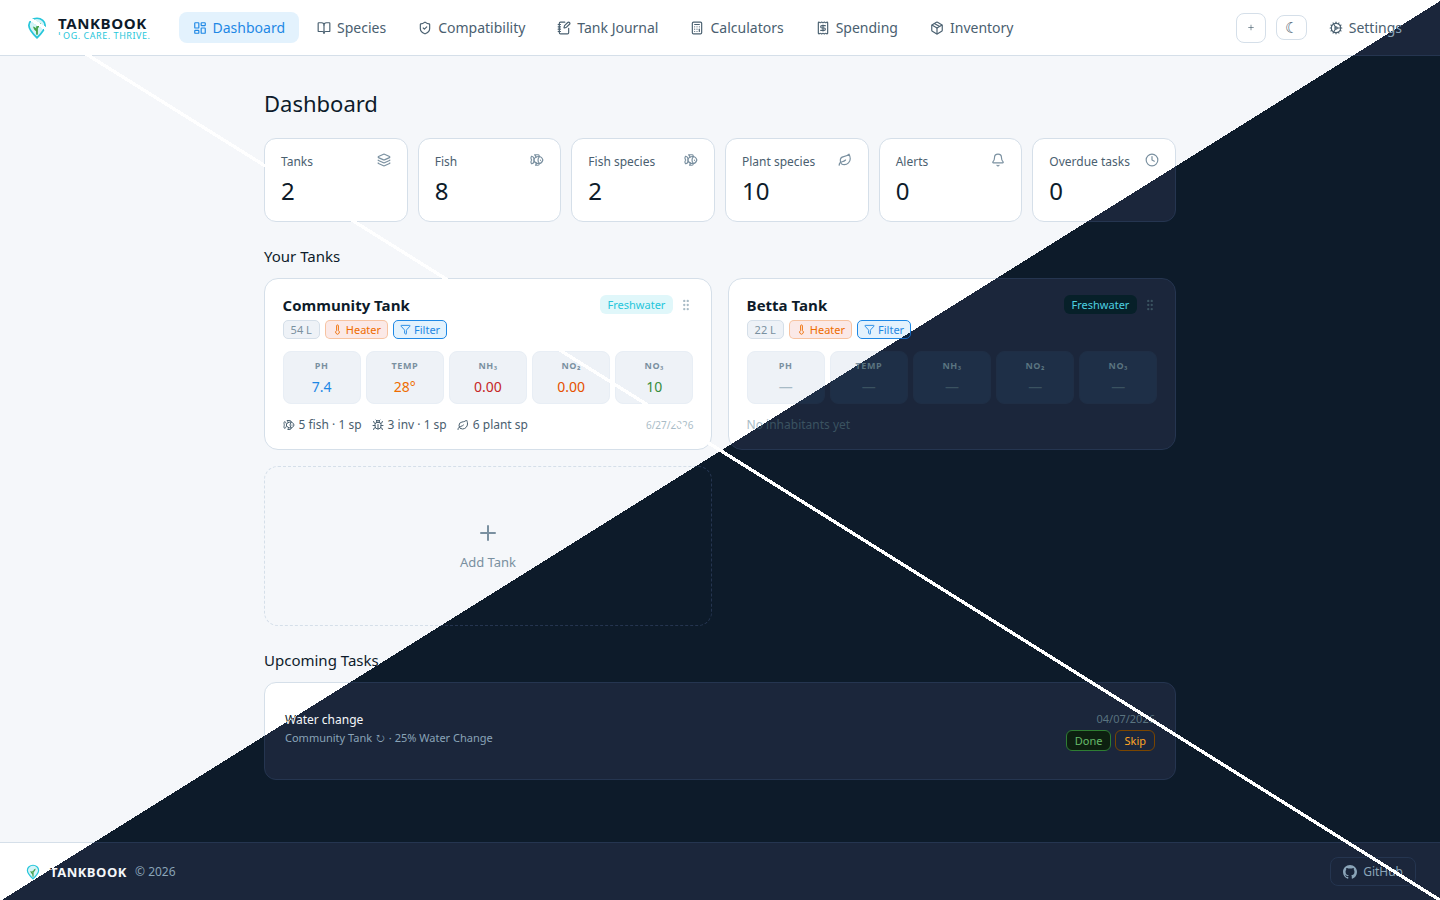
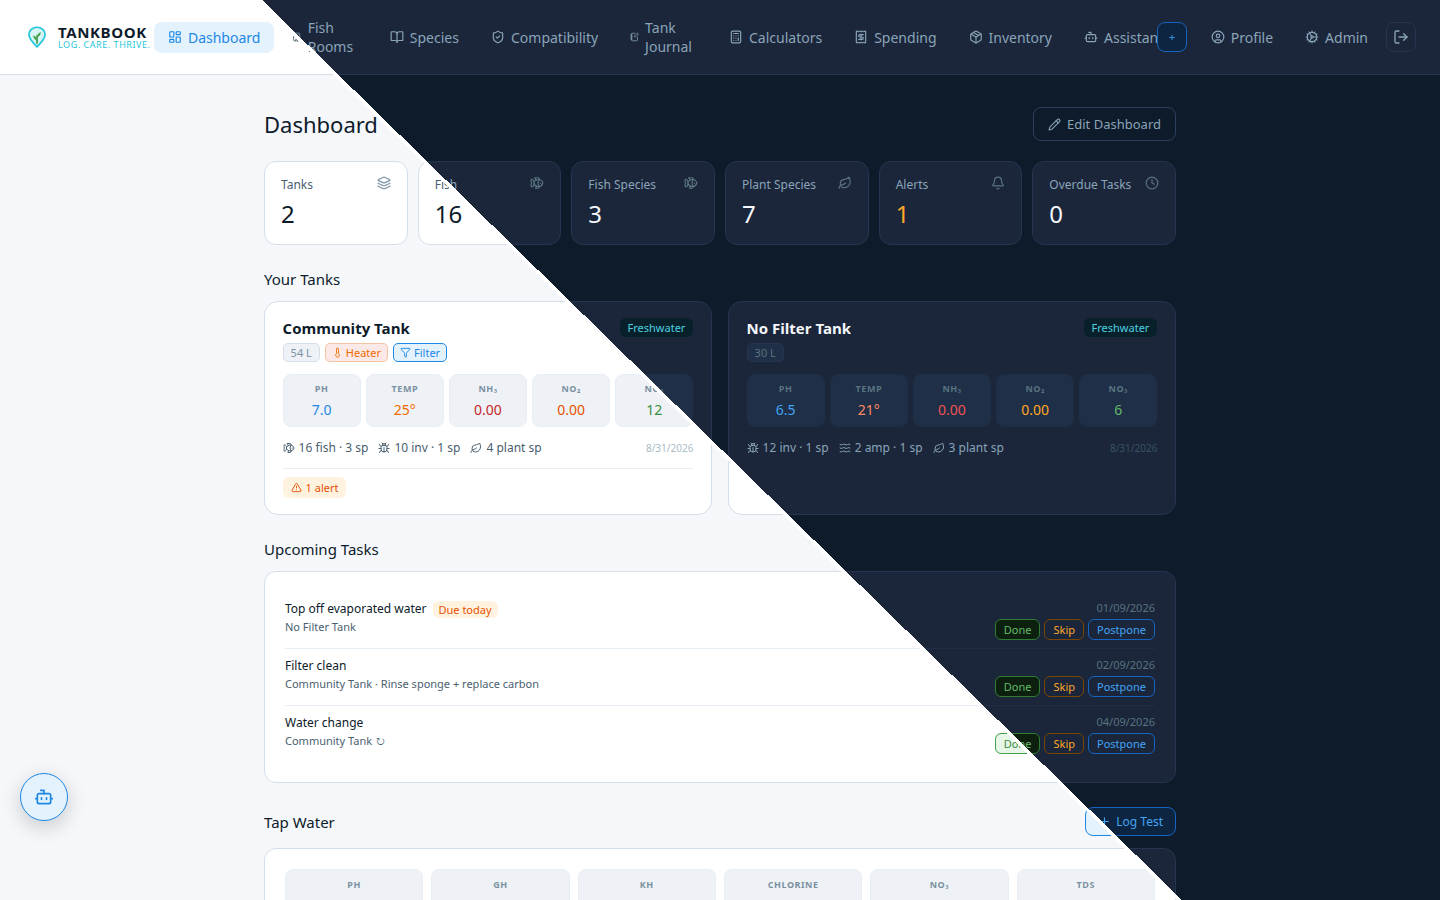
Refresh README screenshots for 1.0.0
Regenerate every screenshot against the current authenticated UI in
light theme (previous captures predated login/permissions and were
stale), and recompose the hero light/dark split image the same way.
Update the Admin screenshot's caption to match its current name.

diff --git a/README.md b/README.md
@@ -17,6 +17,7 @@
   <img src="https://img.shields.io/badge/PostgreSQL-16-4169E1?style=flat-square&logo=postgresql&logoColor=white" alt="PostgreSQL 16" />
   <img src="https://img.shields.io/badge/Docker-Compose-2496ED?style=flat-square&logo=docker&logoColor=white" alt="Docker Compose" />
   <img src="https://img.shields.io/badge/self--hosted-brightgreen?style=flat-square" alt="Self-hosted" />
+  <img src="https://img.shields.io/badge/multi--user-blueviolet?style=flat-square" alt="Multi-user" />
 </p>
 
 ---
@@ -65,8 +66,8 @@
       <strong>Calculators</strong> — tank volume calculator (rectangular and cylinder) and chemical dosage calculator for API liquid and powder treatments
     </td>
     <td align="center">
-      <img src="docs/screenshots/settings.png" alt="Settings" /><br/>
-      <strong>Settings</strong> — configure date format, dimension units, and default tank; export or import a full data backup
+      <img src="docs/screenshots/settings.png" alt="Admin" /><br/>
+      <strong>Admin</strong> — manage users and grant per-account permissions, configure SSO, and control instance-wide settings
     </td>
   </tr>
 </table>
@@ -77,14 +78,26 @@
 
 | Page | Description |
 |---|---|
-| **Dashboard** | Overview of all tanks with live parameter readings, alerts, and upcoming tasks |
-| **Tank detail** | Per-tank view with livestock, plants, water parameters, maintenance schedule, daily tasks, and alerts |
-| **Species** | Searchable catalogue of fish, invertebrates, amphibians, and plants with care data; add and edit entries via the built-in form |
+| **Dashboard** | Configurable overview of your tanks — 6 top stat cards chosen per user, live parameter readings, upcoming/overdue tasks, tap water tracking, and per-user section visibility |
+| **Tank detail** | Per-tank view with livestock, plants, water parameters, maintenance schedule, daily tasks, gallery, and alerts, on a rectangular or cylinder tank visualisation |
+| **Rooms** | Lay tanks out on a persistent 2D top-down map per room, with drag-and-drop (and touch) positioning |
+| **Species** | Searchable catalogue of fish, invertebrates, amphibians, and plants with care data; add and edit entries via the built-in form, with AI-drafted entries as a starting point |
 | **Compatibility checker** | Build a stocklist and instantly see conflicts, temperament warnings, and water parameter overlaps |
-| **Tank journal** | Per-tank event log — observations, illness, treatments, births, deaths, and more |
-| **Calculators** | Tank volume and chemical dosage calculators |
-| **Spending tracker** | Log and categorise aquarium expenses with per-tank and per-category breakdowns |
-| **Settings** | Date format, unit system, and full data backup / restore |
+| **Tank journal** | Per-tank event log — observations, water changes, treatments, births, deaths, and Quarantine/Disease case tracking with updates and resolution |
+| **AI assistant** | Global chat widget backed by a pluggable provider (Anthropic, OpenAI, or a local Ollama model) that can answer questions about your tanks, water parameters, tasks, and alerts |
+| **Calculators** | Tank volume calculator and API chemical dosage calculator |
+| **Inventory** | Track consumable stock (food, chemicals, and more) with low-stock thresholds |
+| **Spending tracker** | Log aquarium expenses with a per-item quantity, linked to a tank and category, with per-tank and per-category totals |
+| **Notifications** | Web Push alerts for due maintenance tasks |
+| **Settings & Profile** | Per-user date format, unit system, and default tank; instance-wide admin settings; full or selective data backup / restore |
+
+### Accounts, permissions & sharing
+
+TankBook is multi-user. The first account created on a fresh instance automatically becomes an admin.
+
+- **Local accounts or SSO** — sign in with a local email/password, or configure OIDC single sign-on (with an in-app setup guide for the provider-side configuration).
+- **Tiered permissions** — admins grant each user a level (none / use / edit, plus a delete tier for species) across four categories: AI assistant, general settings, user management, and the species catalogue.
+- **Per-tank ownership and sharing** — every tank has an owner. Owners can share an individual tank with another user as a **view-only** or **edit** collaborator from the tank's Edit tab; every add/edit/delete control is hidden from view-only collaborators, enforced on the backend as well as the UI. Deleting a tank and managing who has access to it always stay owner-only.
 
 ---
 
@@ -93,6 +106,9 @@
 - **Backend**: FastAPI + SQLAlchemy + Alembic (Python 3.12)
 - **Database**: PostgreSQL 16
 - **Frontend**: React 18 + TypeScript + Vite
+- **Auth**: Session-based local accounts, plus optional OIDC single sign-on
+- **AI assistant**: Pluggable provider — Anthropic, OpenAI, or a local Ollama model
+- **Notifications**: Web Push
 - **Container**: Single Docker image — frontend is bundled into the backend at build time
 - **Species data**: YAML files — kept as a local copy only, not tracked in git
 
@@ -113,7 +129,7 @@ docker compose up --build -d
 # API docs →  http://localhost:3000/api/docs
 ```
 
-The app applies all database migrations automatically on startup.
+The app applies all database migrations automatically on startup. The first account you register becomes the instance admin, with full permissions; subsequent accounts start with no permissions until an admin grants them.
 
 ### Using dev.sh
 
@@ -169,7 +185,7 @@ TankBook-App/
 │   │   ├── models/                # ORM models
 │   │   ├── schemas/               # Pydantic request/response schemas
 │   │   ├── routers/               # API route handlers
-│   │   └── services/              # Species loader, alert checker
+│   │   └── services/              # Species loader, alert checker, ownership/permissions, AI agent, push notifications
 │   └── alembic/                   # Database migrations
 ├── frontend/
 │   └── src/
@@ -259,5 +275,5 @@ docker compose exec app alembic history
 
 The **Settings** page includes a Data backup section:
 
-- **Export** — downloads a `tankbook-backup-YYYY-MM-DD.json` file containing all tanks, livestock, water parameters, maintenance tasks, journal entries, and app settings.
+- **Export** — downloads a `tankbook-backup-YYYY-MM-DD.json` file, either everything or a chosen selection of categories (tanks, livestock, water parameters, maintenance tasks, journal entries, inventory, spending, and app settings).
 - **Import** — restores from a backup file. Requires two-step confirmation as it **replaces all current data**.
